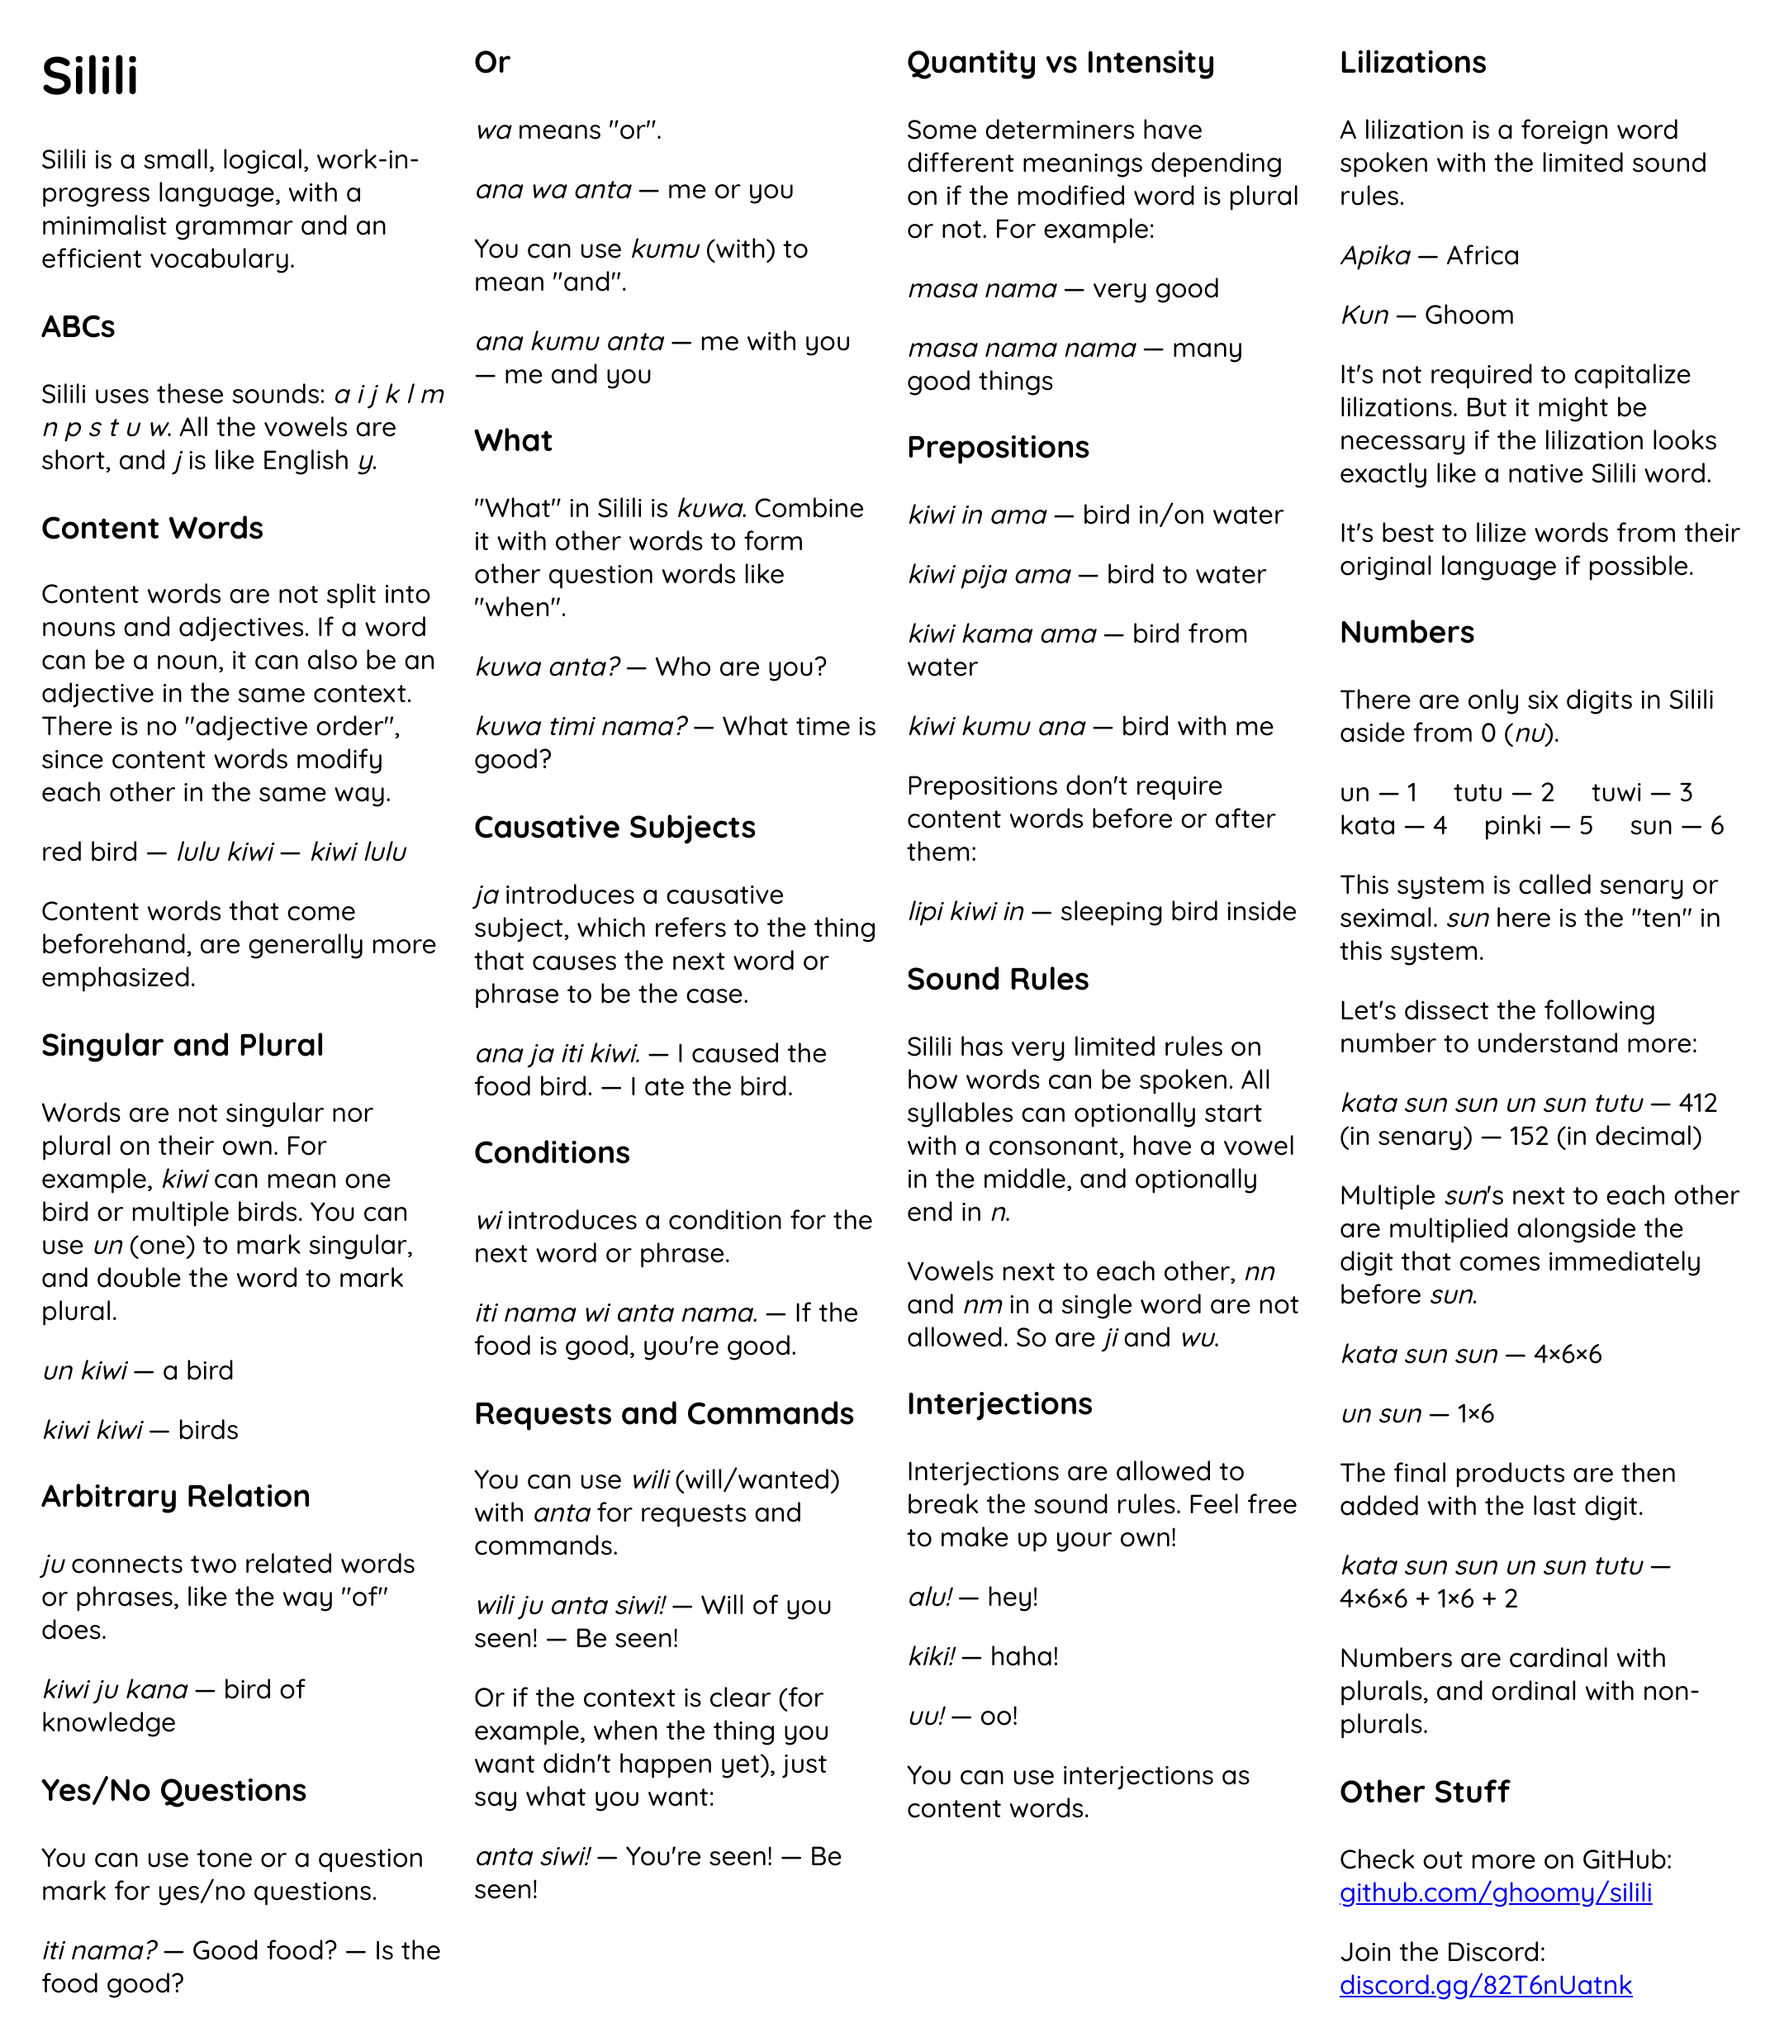
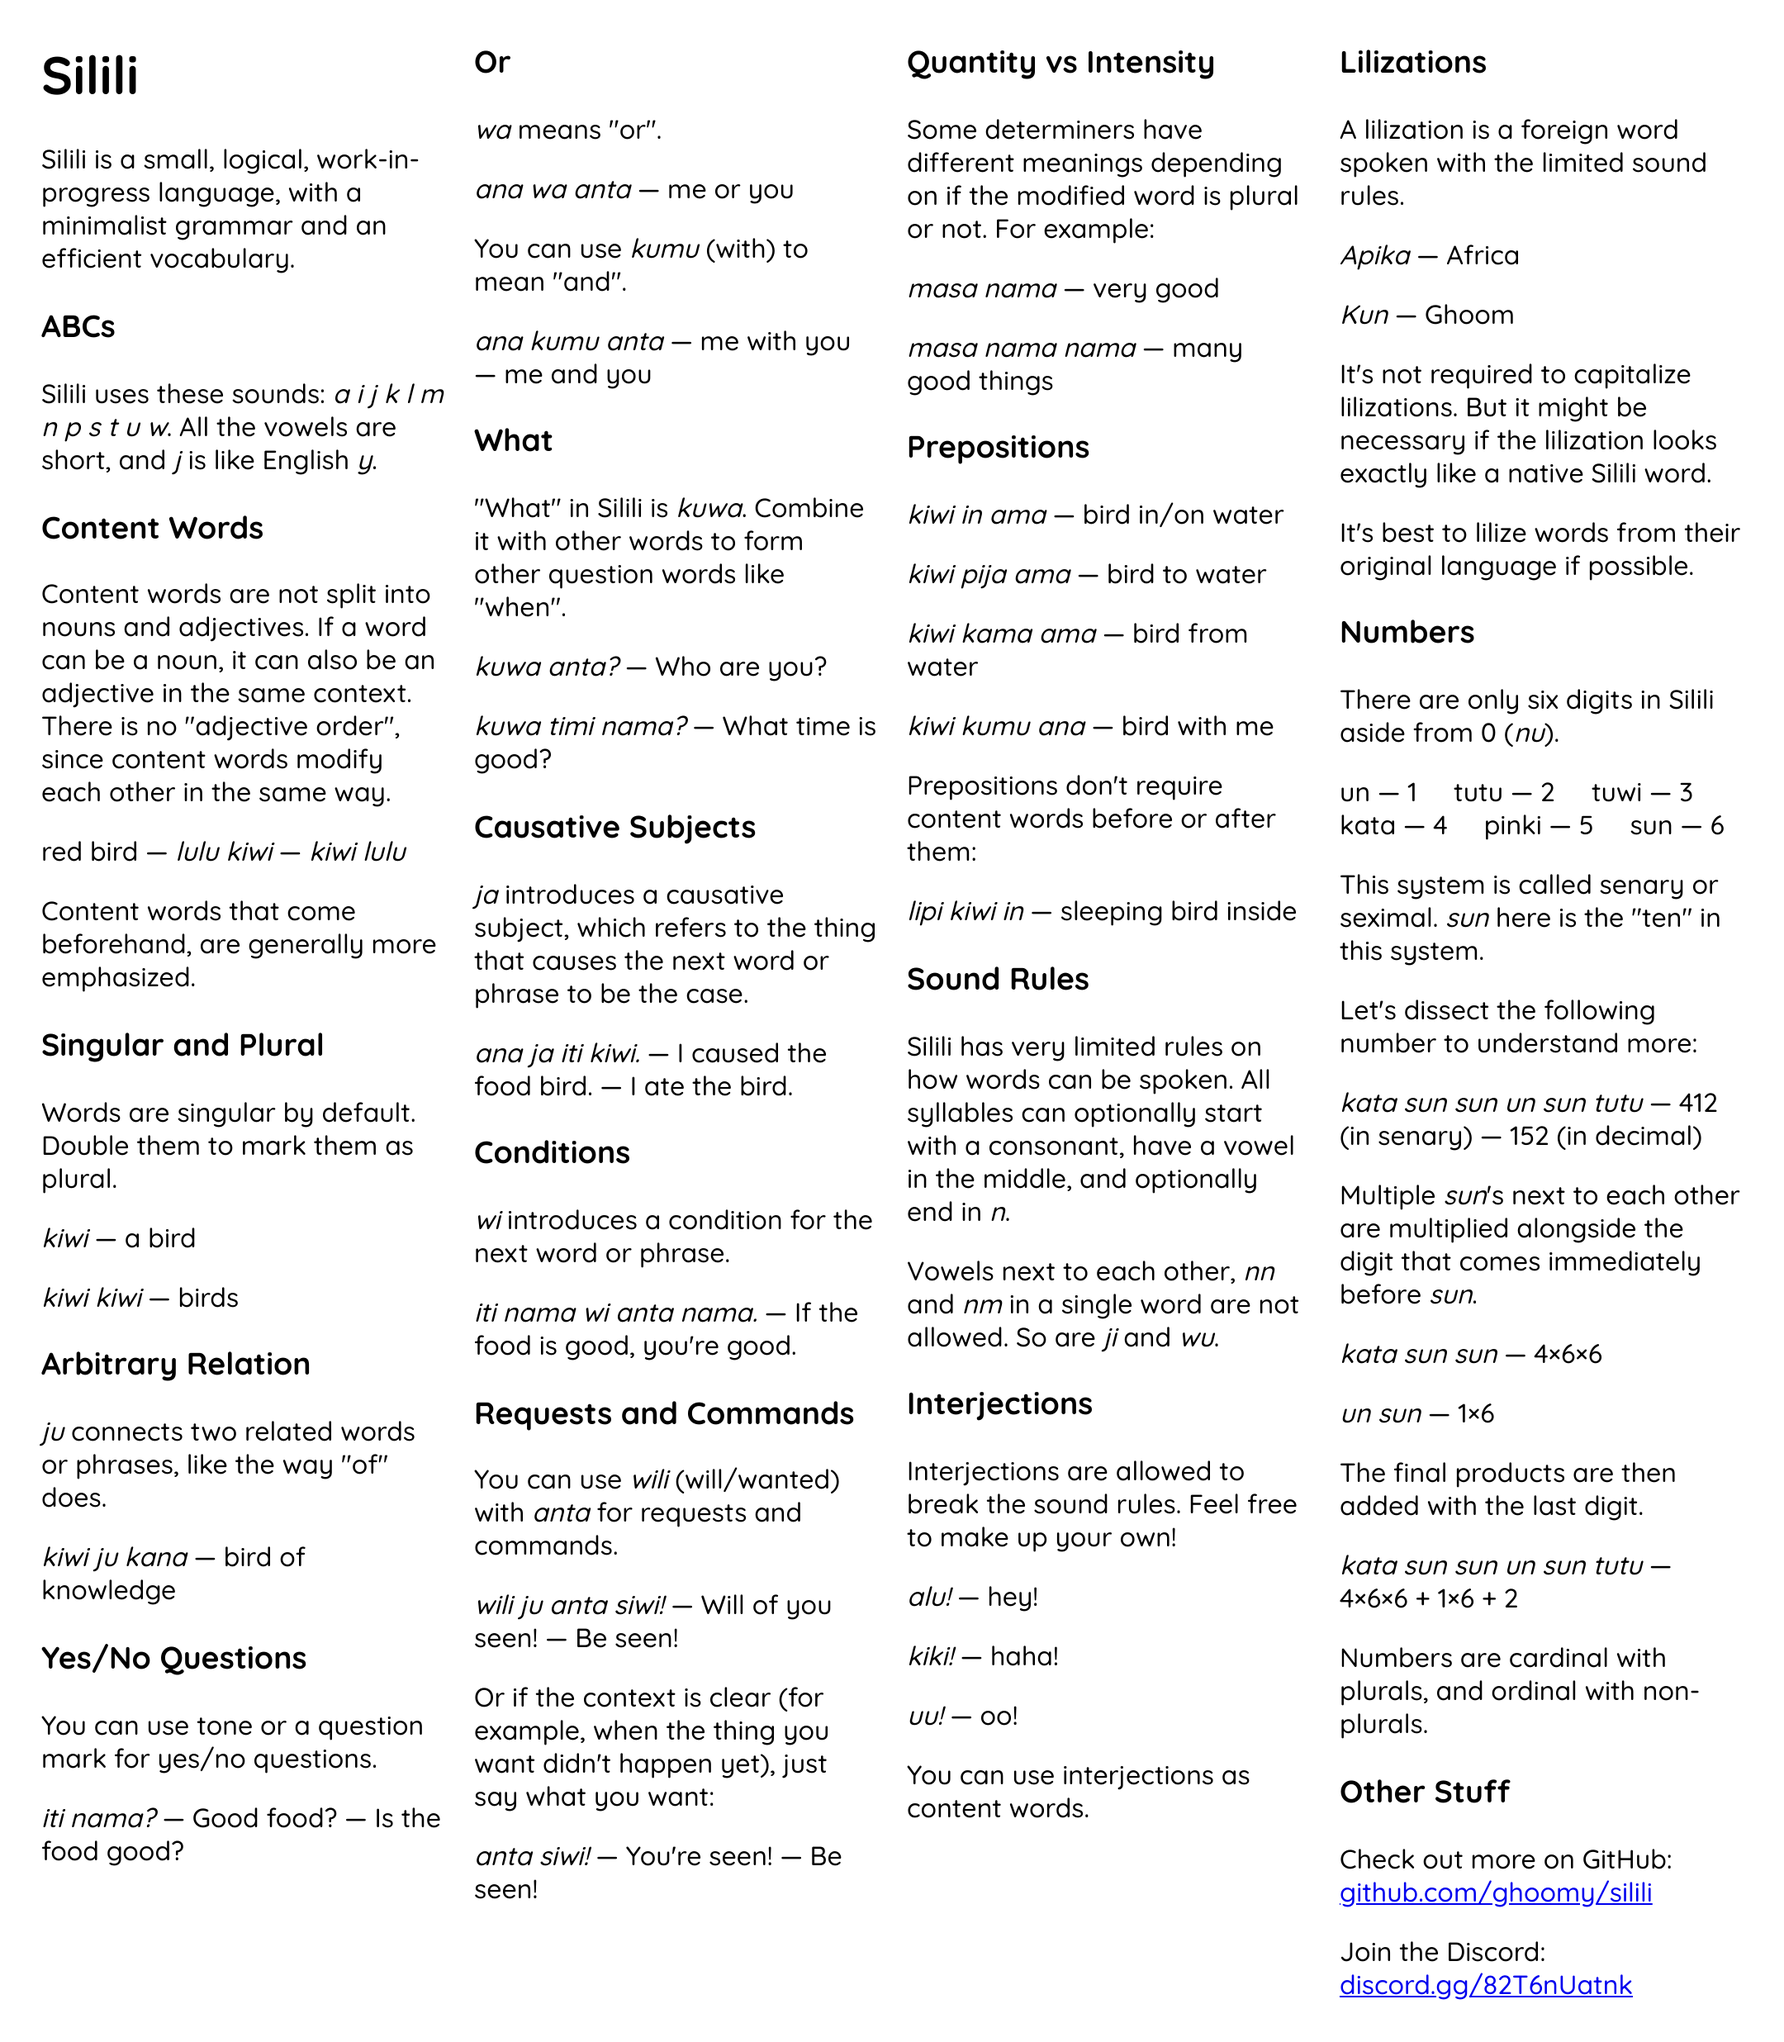
...

Changed region(s): [[0.031, 0.5295, 0.2171, 0.9656], [0.062, 0.9656, 0.0931, 0.9968]]

diff --git a/README.md b/README.md
@@ -30,9 +30,9 @@ Content words that come beforehand, are generally more emphasized.
 
 ### Singular and Plural
 
-Words are not singular nor plural on their own. For example, *kiwi* can mean one bird or multiple birds. You can use *un* (one) to mark singular, and double the word to mark plural.
+Words are singular by default. Double them to mark them as plural.
 
-*un kiwi* — a bird
+*kiwi* — a bird
 
 *kiwi kiwi* — birds
 
